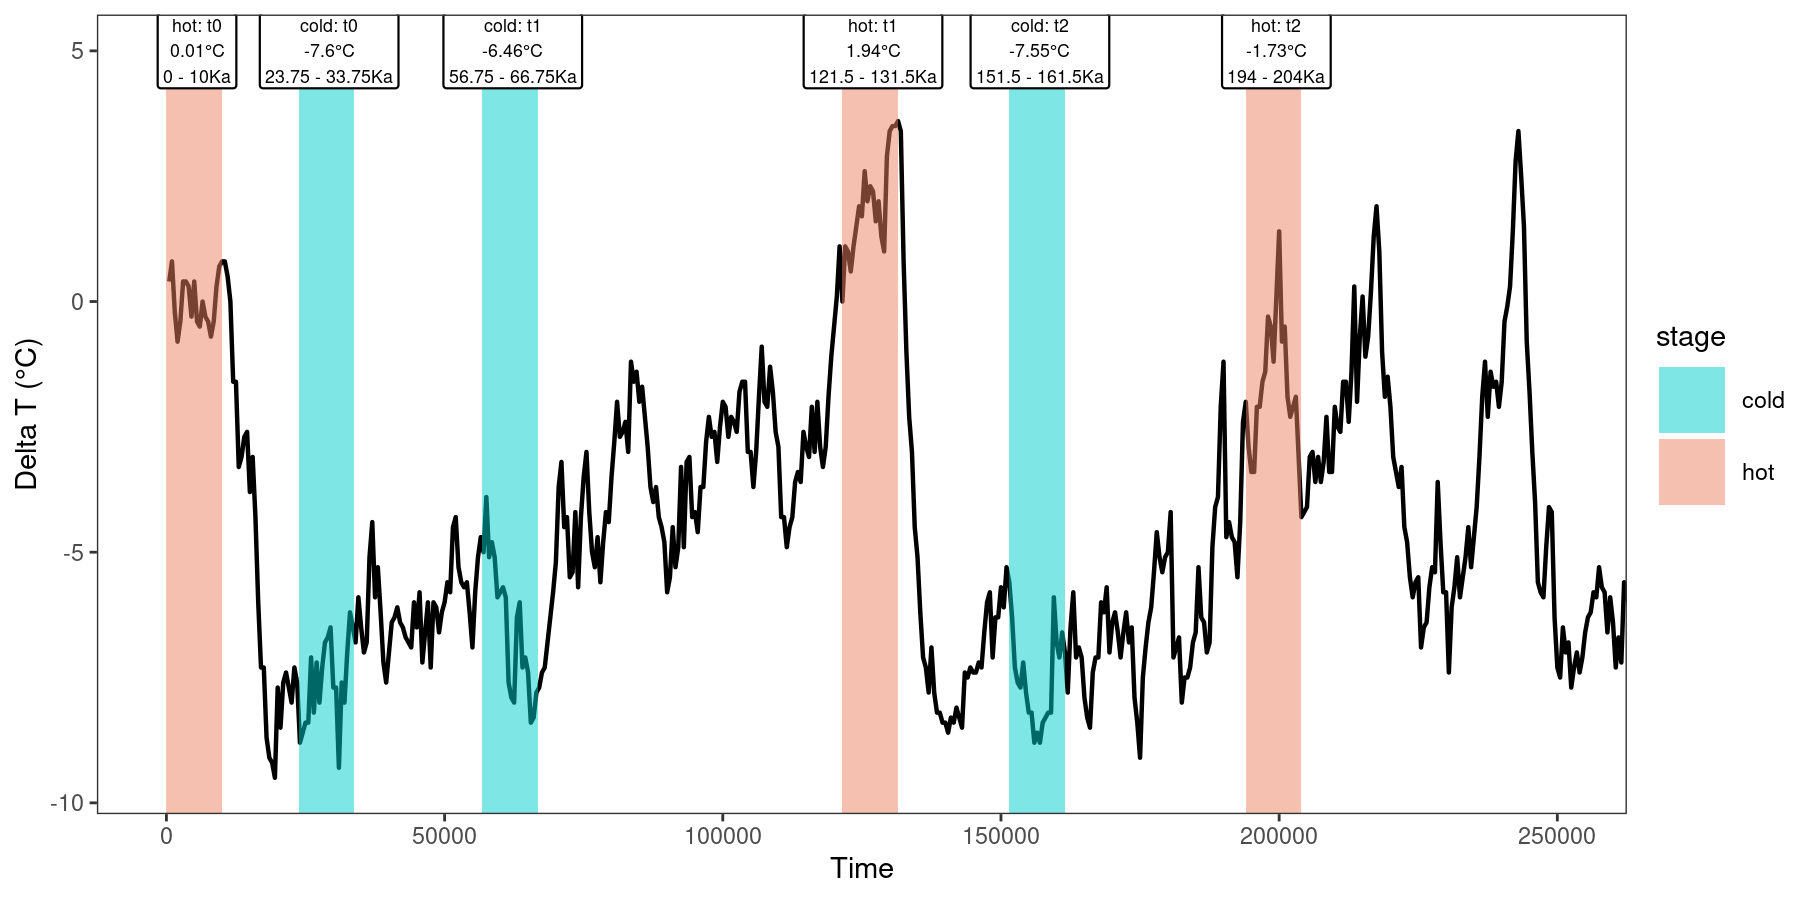
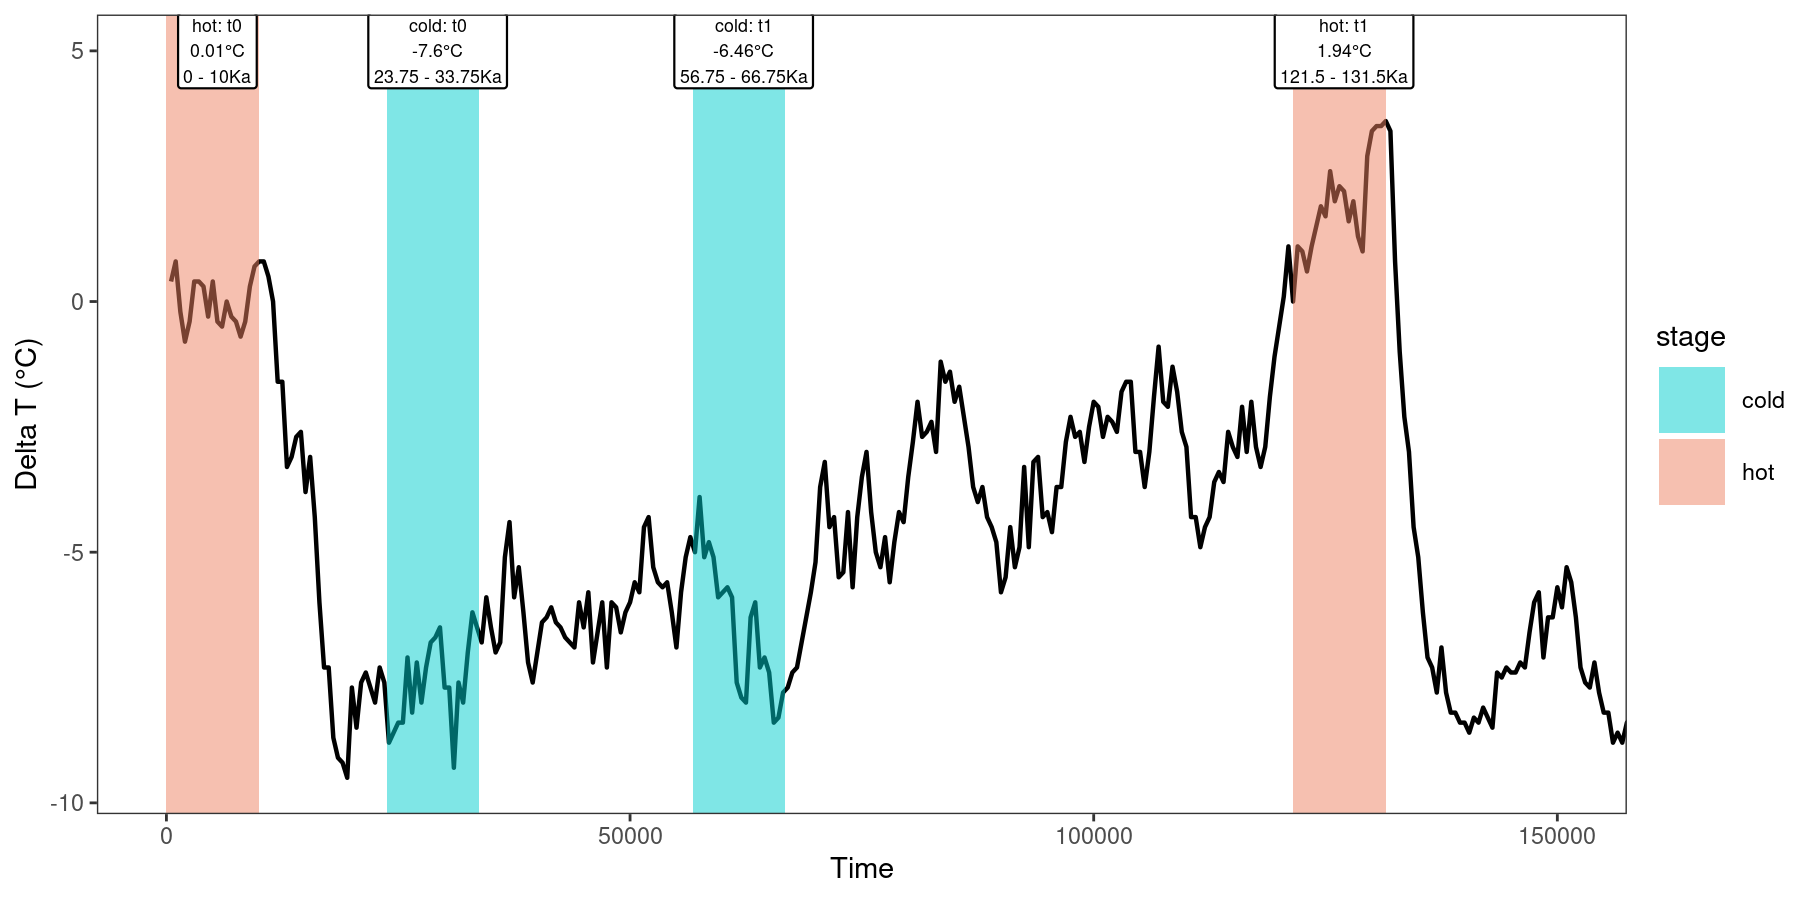
update temperature periods t0 and t1 only

diff --git a/temperature_periods/README.md b/temperature_periods/README.md
@@ -6,7 +6,7 @@ Additional data on the dataset [here](https://www.ncei.noaa.gov/access/metadata/
 
 ## Assign Two Hot & Cold Periods
 
-Quantitatively assign t0, t1, and t2 hot and cold periods. 
+Quantitatively assign t0 and t1 hot and cold periods. 
 
 For example: identifying recent hot times:
 
@@ -21,14 +21,12 @@ cold_0 <- icecore %>%  filter(time < 5e4) %>% slice_min(deltaT,n=20) %>%
 
 But, we want our time periods to be a similar duration, we will select 10Ka for simplicity. I find the midpoint of the periods, and then add +/- 5000 so that all periods are the same duration (10K). Also ensure that the contemporary period starts at 0 and goes to 10Ka. 
 
-| Start  | End    | Duration | Stage | Period | Mean temperature |
+| Start  | End    | Duration | Stage | Period | Mean Temperature |
 | ------ | ------ | -------- | ----- | ------ | ---------------- |
 | 0      | 10000  | 10000    | hot   | t0     | 0.005            |
 | 23750  | 33750  | 10000    | cold  | t0     | -7.6             |
 | 121500 | 131500 | 10000    | hot   | t1     | 1.94             |
 | 56750  | 66750  | 10000    | cold  | t1     | -6.46            |
-| 194000 | 204000 | 10000    | hot   | t2     | -1.73            |
-| 151500 | 161500 | 10000    | cold  | t2     | -7.55            |
 
 
 Which gives us:
